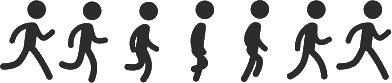
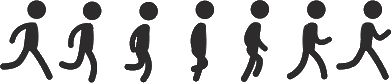
Доделал руку

diff --git a/Portal2D.py b/Portal2D.py
@@ -1,9 +1,10 @@
+import pygame, os
+
 import Helper
 from Human import Human
 from Bullet import Bullet
 from Field import Field
-import pygame, os
-
+from Hand import Hand
 from Label import Label
 from Menu import Menu
 from Portal import Portal
@@ -57,8 +58,7 @@ def load_level(level):
     # загружаем поле
     field.load(level)
     # человека ставим где вход
-    human.rect.x = field.enter.rect.x
-    human.rect.y = field.enter.rect.y
+    human.set_pos(field.enter.rect.x, field.enter.rect.y)
     # убираем порталы и пулю
     red_portal.visible = False
     blue_portal.visible = False
@@ -71,7 +71,7 @@ def load_level(level):
     # переключаемся в игровое меню
     menu.start = False
     # сперва стреляем красной пулей
-    bullet.red = True
+    human.hand.red = True
     # в заголовке окна показываем номер уровня
     pygame.display.set_caption('Portal 2D - уровень ' + str(level))
 
@@ -87,7 +87,7 @@ def save_game():
         f.write(str(field.level) + "\n")
         f.write(str(human.rect.x) + "\n")
         f.write(str(human.rect.y) + "\n")
-        f.write(str(bullet.red) + "\n")
+        f.write(str(human.hand.red) + "\n")
 
         red_portal.save(f)
         blue_portal.save(f)
@@ -116,9 +116,8 @@ def load_game():
     level = int(lines[0])
     load_level(level)
 
-    human.rect.x = int(lines[1])
-    human.rect.y = int(lines[2])
-    bullet.red = lines[3] == "True"
+    human.set_pos(int(lines[1]), int(lines[2]))
+    human.hand.red = lines[3] == "True"
 
     red_portal.load(lines, 4)
     if red_portal.visible:
@@ -156,7 +155,7 @@ def open_portal(block):
     cx = bullet.rect.x + bullet.rect.w / 2
     cy = bullet.rect.y + bullet.rect.h / 2
 
-    if bullet.red:
+    if human.hand.red:
         portal = red_portal
     else:
         portal = blue_portal
@@ -180,13 +179,13 @@ def open_portal(block):
         return
 
     # меняем цвет следующей пули
-    if bullet.red:
-        bullet.red = False
+    if human.hand.red:
+        human.hand.red = False
     else:
-        bullet.red = True
+        human.hand.red = True
 
 
-# перемещение пули
+    # перемещение пули
 def move_bullet():
     # двигаем по 1 пикселю
     for i in range(15):
@@ -213,10 +212,10 @@ def move_bullet():
 def try_down():
     for i in range(int(human.acceleration)):
         # опускаем по 1 пикселю
-        human.rect.y += 1
+        human.move(0, 1)
         if Helper.mask_collide_sprites(human, field.blocks):
             # если там блок, то возвращаем обратно
-            human.rect.y -= 1
+            human.move(0, -1)
             human.acceleration = 2
             break
         else:
@@ -248,10 +247,11 @@ while running:
                 click_menu()
             # если на экране нет пули, то стреляем
             elif not bullet.visible:
-                x1 = human.rect.x + human.rect.w / 2
-                y1 = human.rect.y + human.rect.h / 2
+                x1 = human.rect.x + Hand.SHOULDER_X
+                y1 = human.rect.y + Hand.SHOULDER_Y
                 x2 = event.pos[0]
                 y2 = event.pos[1]
+                bullet.red = human.hand.red
                 bullet.start(x1, y1, x2, y2)
         # если на экране надпись и нажали пробел, то убираем надпись
         if label.visible and event.type == pygame.KEYDOWN and event.key == pygame.K_SPACE:
@@ -260,8 +260,9 @@ while running:
         if not menu.visible and not label.visible and event.type == pygame.KEYDOWN and event.key == pygame.K_ESCAPE:
             menu.visible = True
         # перемещение мышки в меню - раскрашиваем кнопки
-        if menu.visible and event.type == pygame.MOUSEMOTION:
+        if event.type == pygame.MOUSEMOTION:
             menu.set_mouse(event.pos[0], event.pos[1])
+            human.set_mouse(event.pos[0], event.pos[1])
 
     # рисуем надпись на экране
     if label.visible:
@@ -301,7 +302,7 @@ while running:
 
     # если вошел в стену, то возвращаем человека обратно
     if Helper.mask_collide_sprites(human, field.blocks):
-        human.rect.x = x
+        human.set_pos(x, human.rect.y)
 
     # пропуем опустить человека вниз
     try_down()

diff --git a/Human.py b/Human.py
@@ -1,8 +1,9 @@
 import Helper
 import pygame
 
+from Hand import Hand
 
-# класс - человечек
+
 class Human(pygame.sprite.Sprite):
     def __init__(self):
         super().__init__()
@@ -35,13 +36,33 @@ class Human(pygame.sprite.Sprite):
         self.group = pygame.sprite.Group()
         self.group.add(self)
 
+        self.hand = Hand()
+        self.group.add(self.hand)
+
         # ускорение падения
         self.acceleration = 2
+
+        self.mouse_x = 0
+        self.mouse_y = 0
+
+    # переместить человека в координаты x,y
+    def set_pos(self, x, y):
+        self.rect.x = x
+        self.rect.y = y
+        self.hand.set_pos(x, y, self.mouse_x, self.mouse_y)
+
+    # сместить человека на dx,dy
+    def move(self, dx, dy):
+        self.set_pos(self.rect.x + dx, self.rect.y + dy)
+
+    def set_mouse(self, x, y):
+        self.mouse_x = x
+        self.mouse_y = y
 
     # перемещение вправо
     def go_right(self):
         self.right = True
-        self.rect.x += 2
+        self.move(2, 0)
 
         # меняем кадр через 45 мс
         if pygame.time.get_ticks() > self.last_time + 45:
@@ -54,7 +75,7 @@ class Human(pygame.sprite.Sprite):
     # перемещение влево
     def go_left(self):
         self.right = False
-        self.rect.x -= 2
+        self.move(-2, 0)
 
         if pygame.time.get_ticks() > self.last_time + 45:
             self.cur_frame += 1
@@ -66,7 +87,7 @@ class Human(pygame.sprite.Sprite):
     # бег вправо
     def run_right(self):
         self.right = True
-        self.rect.x += 4
+        self.move(4, 0)
 
         if pygame.time.get_ticks() > self.last_time + 45:
             self.cur_frame += 1
@@ -78,7 +99,7 @@ class Human(pygame.sprite.Sprite):
     # бег влево
     def run_left(self):
         self.right = False
-        self.rect.x -= 4
+        self.move(-4, 0)
 
         if pygame.time.get_ticks() > self.last_time + 45:
             self.cur_frame += 1

diff --git a/Hand.py b/Hand.py
@@ -1,0 +1,41 @@
+import Helper
+import pygame
+import math
+
+
+# класс - рука человека
+class Hand(pygame.sprite.Sprite):
+    # координаты плеча - центра вращения руки
+    SHOULDER_X = 27
+    SHOULDER_Y = 30
+
+    def __init__(self):
+        super().__init__()
+
+        self.red_hand_image = Helper.load_image('red_hand.png')
+        self.blue_hand_image = Helper.load_image('blue_hand.png')
+        self.image = self.red_hand_image
+        self.rect = self.image.get_rect()
+        self.angle = 0
+        self.red = True
+
+    # установить руку с пушкой
+    # x1, y1 - координаты человека
+    # x2, y2 - координаты мышки
+    def set_pos(self, x1, y1, x2, y2):
+        # цетр вращения руки человека
+        x1 += Hand.SHOULDER_X
+        y1 += Hand.SHOULDER_Y
+        # угол поворота пушки
+        angle = math.atan2(y1 - y2, x2 - x1) * 180 / math.pi
+        # если угол поменялся, то поворачиваем картинку с рукой
+        if angle != self.angle:
+            if self.red:
+                self.image = pygame.transform.rotate(self.red_hand_image, angle)
+            else:
+                self.image = pygame.transform.rotate(self.blue_hand_image, angle)
+            self.angle = angle
+        # задаем новые координаты руки
+        self.rect = self.image.get_rect()
+        self.rect.x = x1 - self.rect.w // 2
+        self.rect.y = y1 - self.rect.h // 2

diff --git a/Field.py b/Field.py
@@ -49,10 +49,12 @@ class Field:
         self.enters.remove(self.enters)
         self.backs.remove(self.backs)
 
+        # загружаем строки из файла
         with open('data/Level' + str(level) + '.txt') as f:
             for line in f.readlines():
                 self.lines.append(line.strip())
 
+        # загружаем блоки
         for i in range(len(self.lines)):
             for j in range(len(self.lines[i])):
                 x, y = 64 * j, 84 * i
@@ -150,6 +152,7 @@ class Field:
                     block.down = False
                     self.blocks.add(block)
 
+        # задаем маску каждому блоку для ускорения
         for block in self.blocks:
             block.mask = self.block_mask
 

diff --git a/Bullet.py b/Bullet.py
@@ -28,12 +28,12 @@ class Bullet(pygame.sprite.Sprite):
             self.image = self.red_image
         else:
             self.image = self.blue_image
-        self.x1 = x1
-        self.y1 = y1
+        self.x1 = x1 - self.image.get_width() // 2
+        self.y1 = y1 - self.image.get_height() // 2
         self.x2 = x2
         self.y2 = y2
-        self.x = x1
-        self.y = y1
+        self.x = self.x1
+        self.y = self.y1
         self.visible = True
         self.sound.play()
 

diff --git a/Helper.py b/Helper.py
@@ -1,5 +1,6 @@
 import os
 import pygame
+import math
 
 
 # загрузка картинки из файла
